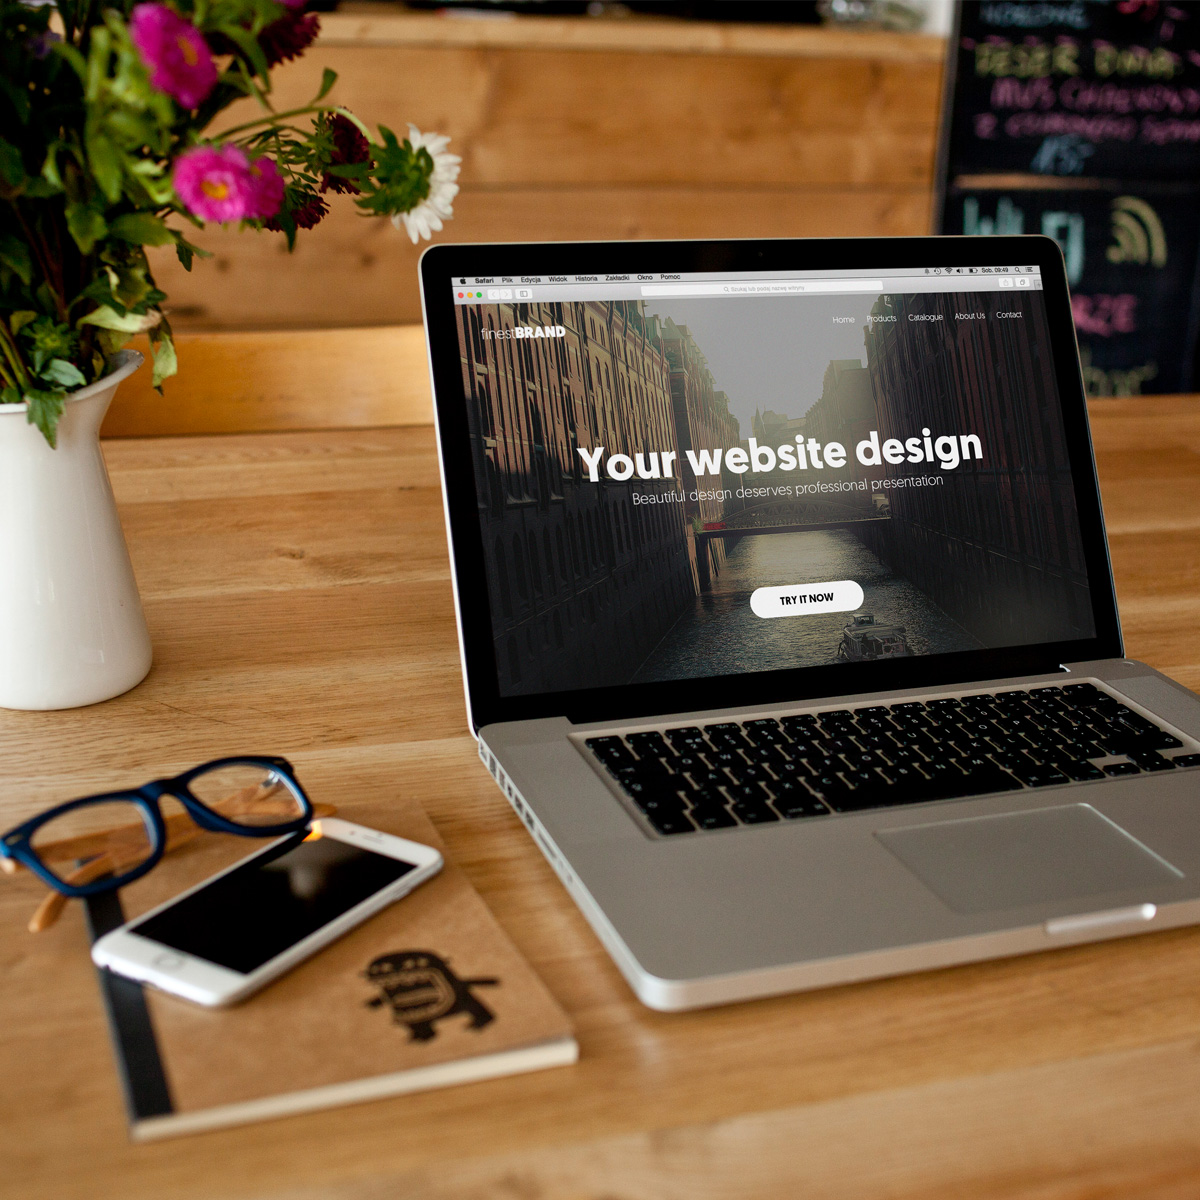
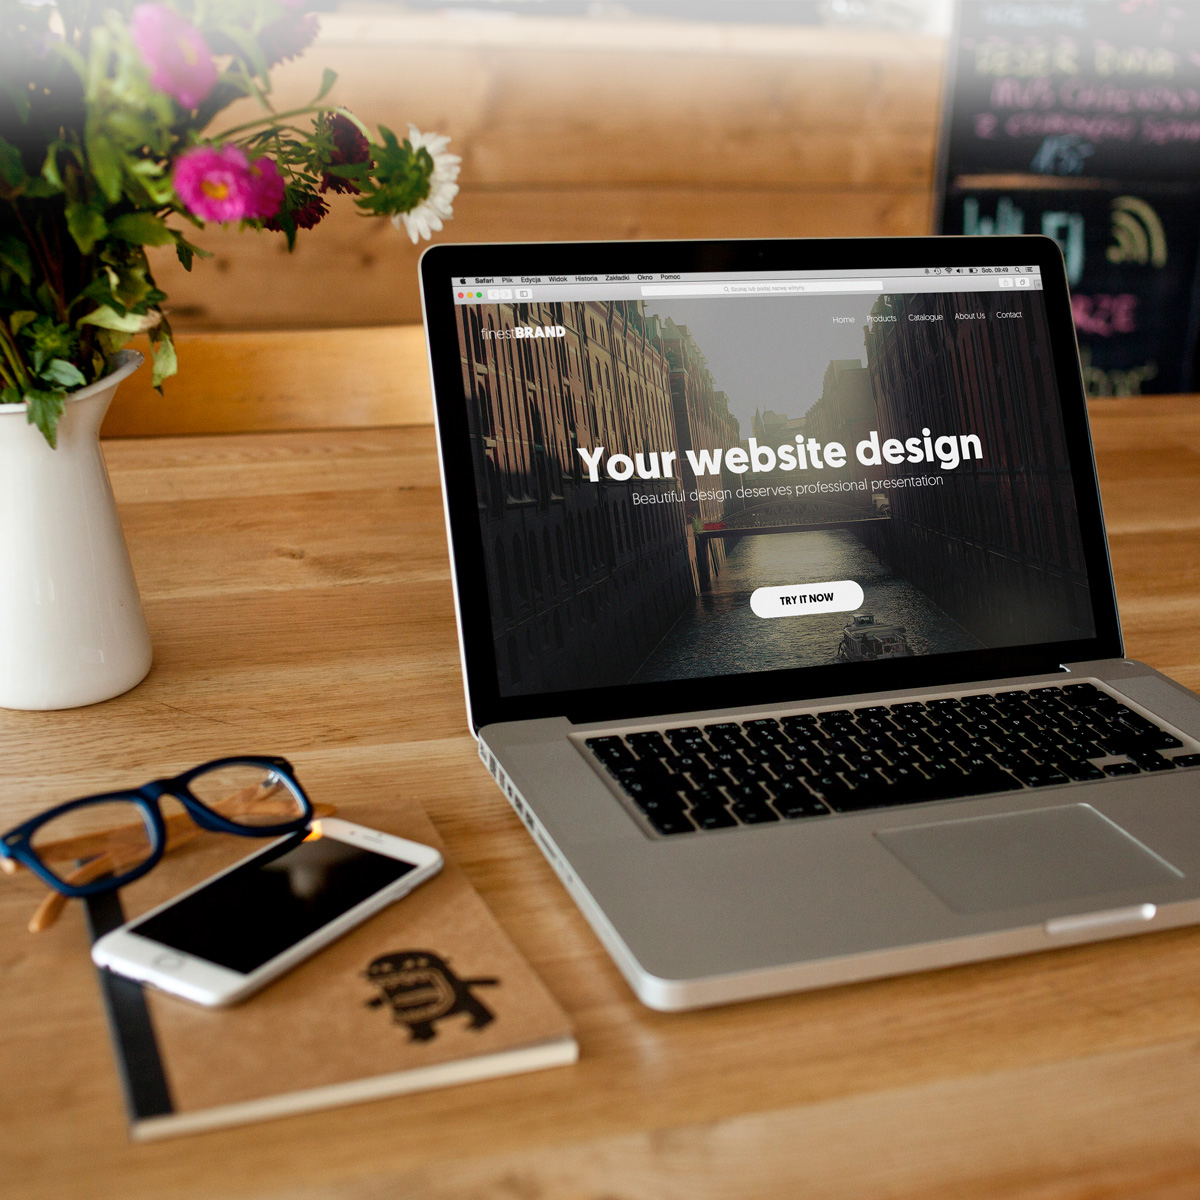
updated

Changed region(s): [[0.0, 0.0, 1.0, 0.1542]]

diff --git a/src/components/navbar.css b/src/components/navbar.css
@@ -23,11 +23,15 @@ a {
     margin-bottom: 5px;
 }
 
+.bg-black {background-color: #232528; -webkit-box-shadow: 0 2px 4px 0 rgba(0,92,169,0.2);
+  -moz-box-shadow: 0 2px 4px 0 rgba(0,92,169,0.2);
+  box-shadow: 0 2px 4px 0 rgba(0,92,169,0.2); transition: all 0.5s ease-in-out;}
+
 
 
     /* menu */
-
-.main-nav-custom .navbar-nav .nav-link {position: relative;display: block;font-size: 15px;color: #222;line-height: 26px;font-weight: 600;padding: 16px 6px 14px 6px;text-align: center;text-transform: uppercase;font-family: 'Poppins', sans-serif;opacity: 1;-webkit-transition: all 500ms ease;}
+.bg-black.main-nav-custom .navbar-nav .nav-link {position: relative; display: block; font-size: 16px; color: #ffffff; line-height: 26px; font-weight: 600; padding: 16px 6px 14px 6px; text-align: center; text-transform: uppercase; font-family: 'Poppins', sans-serif;opacity: 1;-webkit-transition: all 500ms ease; -webkit-transition: all 500ms ease; }
+.main-nav-custom .navbar-nav .nav-link {position: relative; display: block; font-size: 16px; color: #222222; line-height: 26px; font-weight: 600; padding: 16px 6px 14px 6px; text-align: center; text-transform: uppercase; font-family: 'Poppins', sans-serif;opacity: 1;-webkit-transition: all 500ms ease; -webkit-transition: all 500ms ease;}
 .main-nav-custom .navbar-bg-change { background-color: #ffffff; transition: all 1s; z-index: 2; -webkit-box-shadow: 0 2px 4px 0 rgba(0,92,169,0.2); -moz-box-shadow: 0 2px 4px 0 rgba(0,92,169,0.2); box-shadow: 0 2px 4px 0 rgba(0,92,169,0.2); position: fixed; top: 0; right: 0; left: 0; color:#000000; }
 .main-nav-custom .navbar {padding:0;}
 .dropdown-toggle::after { border:none;}

diff --git a/src/components/navbar.jsx b/src/components/navbar.jsx
@@ -3,11 +3,33 @@ import { Link } from 'react-router-dom';
 import './navbar.css';
 
 class Navbar extends Component {
+    constructor(props) {
+        super(props);
 
+        this.state = {};
+
+        this.handleScroll = this.handleScroll.bind(this);
+    }
+
+    handleScroll() {
+        this.setState({ scroll: window.scrollY });
+    }
+
+    componentDidMount() {
+        const el = document.querySelector('nav');
+        this.setState({ top: el.offsetTop, height: el.offsetHeight });
+        window.addEventListener('scroll', this.handleScroll);
+    }
+
+    componentDidUpdate() {
+        this.state.scroll > this.state.top ?
+            document.body.style.paddingTop = `${this.state.height}px` :
+            document.body.style.paddingTop = 0;
+    }
 
     render() {
         return (
-            <nav className="navbar navbar-expand-lg fixed-top main-nav-custom">
+            <nav className={this.state.scroll > this.state.top ? "navbar navbar-expand-lg fixed-top bg-black main-nav-custom" : "navbar navbar-expand-lg fixed-top main-nav-custom"}>
                 <div className="container-fluid">
                     <Link className="navbar-brand" to="/">React website</Link>
                     <button className="navbar-toggler" type="button" data-toggle="collapse" data-target="#navbarTogglerDemo01" aria-controls="navbarTogglerDemo01" aria-expanded="false" aria-label="Toggle navigation">

diff --git a/src/pages/about.css b/src/pages/about.css
@@ -1,7 +1,7 @@
 ::-webkit-scrollbar {
     display: none;
     }
-.content-part {background: #2a2d31; height: 100vh; overflow: auto; padding:100px 30px 30px 30px;}
+.content-part {background: #2a2d31; min-height: 100vh; overflow: auto; padding:100px 30px 30px 30px;}
 .about-text {margin-bottom: 50px; text-align: center;}
 .about-text p {font-size: 23px; font-weight: 300; }
 .about-text span {color: #2672e9; font-weight: 700;}
@@ -34,4 +34,4 @@
 .content-part .card-item p {margin-bottom: 0;}
 
 
-.about-banner {background-image: url(../images/about-banner.jpg); background-size: cover; background-position: 45%;}
+.about-banner {background-image: url(../images/about-banner.jpg); background-size: cover; background-position: 45%; height: 100vh; position: fixed; right: 0; top: 0;}

diff --git a/src/pages/portfolio.css b/src/pages/portfolio.css
@@ -16,5 +16,5 @@
     opacity: 0.05;
 }
 
-.portfolio-banner {background-image: url(../images/product-banner.jpg); background-size: cover; background-position: 45%;}
+.portfolio-banner {background-image: url(../images/product-banner.jpg); background-size: cover; background-position: 45%; height: 100vh; position: fixed; right: 0; top: 0;}
 .lighttitle-text {text-align: center; }

diff --git a/src/pages/home.jsx b/src/pages/home.jsx
@@ -11,7 +11,7 @@ import './home.css';
 class Home extends Component {
     render() {
         return (
-            <div className="main-container">
+            <div className="main-container home-menu">
                 <Navbar />
                 <HomeSlider />
                 <div className="shape1"><img src={bgimg1} alt="shape"/></div>
